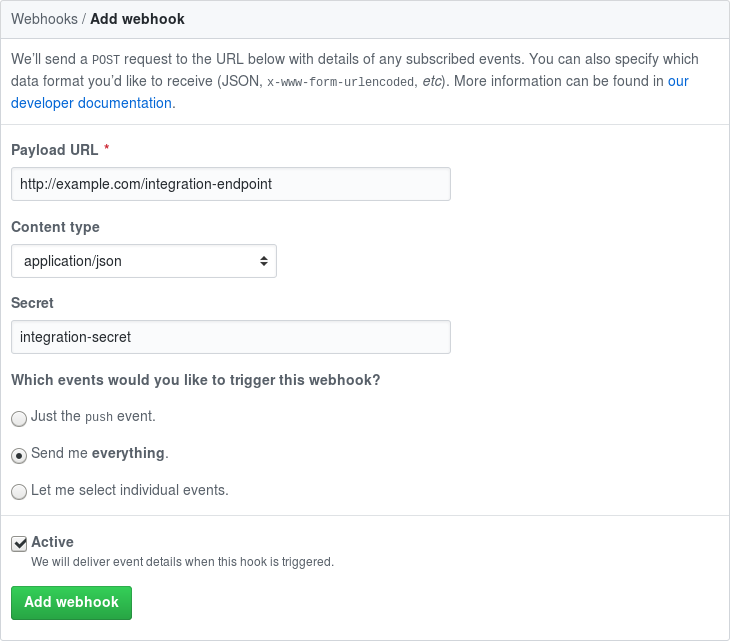
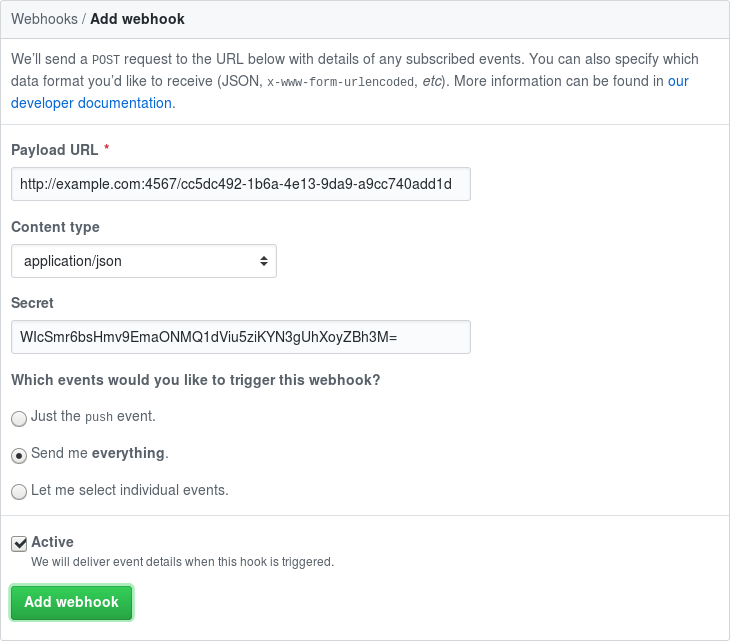
Update documentation with new changes

diff --git a/README.md b/README.md
@@ -47,49 +47,79 @@ $ gem install codebot
 
 ## Usage
 
+It only takes a few minutes to get Codebot up and running.
+
+### Add a network
+
 First, add the IRC networks you want to send notifications to. Remove `--secure`
-to connect on port `6667` without TLS.
+if you need to connect without TLS.
 
 ```
-$ codebot network create freenode --host chat.freenode.net --nick git --secure
+$ codebot network create freenode --host chat.freenode.net --nick bot --secure
+  Network was successfully created
+  Network: freenode
+      Server:     chat.freenode.net:6697 (secure connection)
+      Nickname:   bot
+      SASL authentication disabled
 ```
 
-Next, create an integration to route a webhook endpoint to a set of IRC channels:
+### Add an integration
+
+Next, create an integration to route an endpoint to a set of IRC channels:
 
 ```
-$ codebot integration create project-name -c freenode/#channel1 -c freenode/#channel2
+$ codebot integration create my-project -c freenode/#chan1 freenode/#chan2
+  Integration was successfully created
+  Integration: my-project
+      Endpoint: cc5dc492-1b6a-4e13-9da9-a9cc740add1d
+      Secret:   WIcSmr6bsHmv9EmaONMQ1dViu5ziKYN3gUhXoyZBh3M=
+      Channels:
+          - #chan1 on freenode
+          - #chan2 on freenode
 ```
 
-You can then add a GitHub webhook to any repositories and organizations you'd
-like to receive notifications from.
+### Configure your webhook
+
+You can now [add a GitHub webhook][newhook] to any repositories and
+organizations you'd like to receive notifications from.
 
 ![Sample webhook configuration](webhook.png)
 
-**Payload URL** should be in the format `protocol://your-server:4567/endpoint`,
-where `protocol` is either `http` or `https`, `your-server` is the IP address
-or hostname of the server running Codebot, and `endpoint` is replaced with the
-endpoint of the integration created in the previous step.
+Unless configured otherwise, your **Payload URL** should be
+`http://server:4567/endpoint`, where `server` is the IP address or host name of
+the server Codebot is running on, and `endpoint` is the endpoint generated in
+the previous step.
 
-**Content type** can be set to either value, but `application/json` is
-recommended.
+Both possible values for **Content type** are supported, but it is recommended
+to use `application/json` instead of `application/x-www-form-encoded`.
 
 **Secret** should be set to the secret of the integration created in the
 previous step. This value is used for verifying the integrity of payloads.
 
-You may want to choose *Let me select individual events* if you do not want to
-receive notifications for all events Codebot supports.
+You may want to choose **Let me select individual events** if you do not wish
+to receive notifications for all supported events.
+
+### Start Codebot
 
 After adding the webhook to your GitHub repository or organization, you can
 manage your Codebot instance using the following commands:
 
 ```
-$ codebot core start       # Starts a new instance in the background (as a daemon)
-$ codebot core stop        # Stops an active Codebot instance
-$ codebot core interactive # Starts Codebot interactively without forking
+$ codebot core start       # Starts Codebot in the background (as a daemon)
+$ codebot core stop        # Stops the active Codebot instance
+$ codebot core interactive # Starts Codebot in the foreground (interactively)
 ```
 
-For more information, see `codebot help`, `codebot network --help`,
-`codebot integration --help`, and `codebot core --help`.
+For more information, please consult the following commands:
+
+```
+$ codebot help                      # General help
+$ codebot network --help            # Commands for managing networks
+$ codebot network update --help     # Possible settings for networks
+$ codebot integration --help        # Commands for managing integrations
+$ codebot integration update --help # Possible settings for integrations
+$ codebot core --help               # Commands for managing active instances
+```
 
 The configuration is stored in `~/.codebot.yml`, but it is not recommended to
 edit this file manually.
@@ -103,9 +133,13 @@ To install this gem onto your local machine, run `bundle exec rake install`.
 To release a new version, update the version number in `version.rb`, and then
 run `bundle exec rake release`, which will create a git tag for the version,
 push git commits and tags, and push the `.gem` file to
-[RubyGems](https://rubygems.org/gems/codebot).
+[RubyGems][rubygem].
 
 ## Contributing
 
 Bug reports and pull requests are welcome on GitHub at
-[janikrabe/codebot](https://github.com/janikrabe/codebot).
+[janikrabe/codebot][github].
+
+[github]: https://github.com/janikrabe/codebot "codebot on GitHub"
+[rubygem]: https://rubygems.org/gems/codebot "codebot on RubyGems.org"
+[newhook]: https://developer.github.com/webhooks/creating/#setting-up-a-webhook
